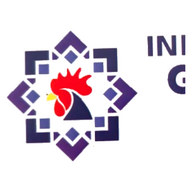
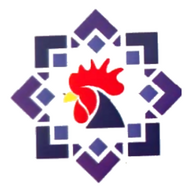
docs: add client-facing audit and proposal report; tighten rosette crop
Report drafted from docs/audit/evidence.md (every figure traceable to a command),
reviewed and corrected by the lead. Rosette icon re-cropped so it no longer
carries part of the wordmark.

Claude-Session: https://claude.ai/code/session_01Wh6Dv8TxxDZFjDfhotKqoT

diff --git a/docs/informe/informe-inmobiliaria-grande.md b/docs/informe/informe-inmobiliaria-grande.md
@@ -1,0 +1,241 @@
+# Inmobiliaria Grande: auditoría de la web actual y propuesta de web nueva
+
+Preparado para: José Antonio Grande · Preparado por: Alejandro Bolívar · Fecha: 3 de septiembre de 2026 · Validez de la propuesta: 30 días
+
+## Resumen para el dueño
+
+He medido la velocidad, la presencia en Google y los formularios de su web actual, www.inmobiliariagrande.com. La web pierde clientes por cuatro motivos. Primero, es lenta y se ve desordenada en el móvil. Segundo, Google no la entiende bien: el título sale cortado, las descripciones están repetidas y los 55 años de historia no aparecen. Tercero, los caminos de contacto fallan: el menú lleva a páginas de error y los formularios muestran un aviso de privacidad sin terminar. Cuarto, los textos legales obligatorios están vacíos o hablan de otra empresa. Propongo una web nueva, ligera y ordenada, construida sobre su marca de 1970, de la que ya he preparado un prototipo que acompaña a este informe. El precio es cerrado: 1.200 euros más IVA, con un mantenimiento opcional de 40 euros al mes si quiere que yo me ocupe de ella, y puede ver el prototipo y decidir en las próximas semanas.
+
+## 1. Móvil y rendimiento
+
+### 1.1 La portada tarda demasiado en abrirse en el móvil
+
+**Qué pasa:** En un móvil con conexión normal, lo principal de la portada tarda unos 6,5 segundos en verse y la página no responde al tacto hasta pasados casi 12 segundos.
+
+**Evidencia medida:** Lighthouse 12.8.2 en emulación móvil (4G lenta) sobre https://www.inmobiliariagrande.com/: rendimiento 41 sobre 100, LCP (Largest Contentful Paint, cuando se ve el contenido principal) 6,5 s, TTI (Time to Interactive, cuando responde al toque) 11,7 s, respuesta del servidor 710 ms. Comando: `npx -y lighthouse@12 https://www.inmobiliariagrande.com/ --preset=perf --form-factor=mobile`. Datos en docs/audit/home-mobile.json.
+
+**Qué le cuesta:** Quien busca piso compara varias agencias a la vez. Si su página no está lista, ese contacto se va a la siguiente pestaña.
+
+**Solución en la web nueva:** Portada ligera, con fotos comprimidas y pocos elementos, con el objetivo de mostrar lo principal en menos de 2,5 segundos; la cifra real se medirá tras el despliegue y se la entregaré por escrito.
+
+### 1.2 La página de cada piso es aún más lenta
+
+**Qué pasa:** Cuando alguien abre la página de un inmueble (la ficha), la espera se hace mayor. El motivo principal es el peso de las fotos.
+
+**Evidencia medida:** Sobre la ficha del piso RGC-0091 (https://www.inmobiliariagrande.com/ficha/piso/granada/alcampo/8081/29899079/es/), Lighthouse en móvil da 26 sobre 100, LCP 12,0 s y TTI 18,5 s; la página mueve 3 743 KiB en 184 peticiones. Esa ficha tiene 42 fotos de 1920 por 1280 píxeles que suman 8 924 283 bytes (unos 8,5 MB), medidas con un bucle de `curl -w %{size_download}`. Resultado en docs/audit/ficha-mobile.json.
+
+**Qué le cuesta:** La ficha es donde el cliente decide llamar. Si la página no responde hasta los 18 segundos, la decisión se toma en otra web.
+
+**Solución en la web nueva:** Fichas ligeras en las que las fotos se cargan solo cuando el visitante las va viendo.
+
+### 1.3 La portada se ve desordenada en el móvil
+
+**Qué pasa:** En pantalla estrecha, banderas amontonadas, buscador sobre las fotos y primeros pisos muy abajo.
+
+**Evidencia medida:** Captura con el móvil a 375 píxeles (docs/audit/current-home-375.png), tomada con `google-chrome --headless=new --window-size=375,2400 --screenshot`: 15 banderas en fila, buscador superpuesto a las fotos y primer inmueble bajo unos 1 300 píxeles de scroll.
+
+**Qué le cuesta:** Una primera impresión caótica resta credibilidad a quien busca una agencia seria para la compra de su casa.
+
+**Solución en la web nueva:** Diseño pensado para el móvil desde el principio, sin elementos que se pisen.
+
+### 1.4 Tecnología antigua y carga innecesaria
+
+**Qué pasa:** La web usa un programa de servidor sin soporte desde hace años y carga muchos componentes que no necesita.
+
+**Evidencia medida:** `curl -sSI https://www.inmobiliariagrande.com/` devuelve `x-powered-by: PHP/5.6.40`; esa versión dejó de actualizarse el 31 de diciembre de 2018 (php.net/eol.php). El HTML de la portada tiene 23 hojas de estilo y 19 programas (comandos `grep -c '<link rel="stylesheet"'` y `grep -o '<script[^>]*src=' | wc -l`), incluido un reCAPTCHA de Google de 354 KB que se descarga en la portada antes de que nadie envíe nada, y 3 013 elementos según Lighthouse.
+
+**Qué le cuesta:** Las piezas sin soporte son un riesgo de seguridad, y el peso sobrante hace cada carga más lenta y difícil de mantener.
+
+**Solución en la web nueva:** Web construida desde cero, sin componentes de sobra y al día en seguridad.
+
+## 2. SEO local y captación de clientes
+
+### 2.1 En Google su marca sale cortada y la descripción se repite
+
+**Qué pasa:** En los resultados de Google, el título de su página aparece partido en el nombre de la empresa, y todas las páginas muestran la misma descripción genérica.
+
+**Evidencia medida:** El título de la portada, del listado y de la página de error es literalmente `Pisos en Granada | Inmobiliarias Granada | Inmobiliaria G...`, cortado en el propio código (comando `grep -o '<title>[^<]*'`). La descripción se repite en todas las páginas: "Inmobiliaria Grande con multitud de propiedades, pisos , chalet , casas, villas en todas las zonas…".
+
+**Qué le cuesta:** En la búsqueda no se entiende quién es ni qué ofrece; la marca aparece cortada en su propio nombre y no hay motivo para entrar.
+
+**Solución en la web nueva:** Un título y una descripción propios y completos para cada página.
+
+### 2.2 Google no distingue lo importante de cada página
+
+**Qué pasa:** Cada página debe tener un titular principal claro (el llamado H1), pero la portada tiene 43 y los anuncios usan frases de cartel sin zona ni precio.
+
+**Evidencia medida:** La portada tiene 43 titulares principales (`grep -c '<h1'`). Los títulos de los anuncios son frases del agente como "!!GRAN PAREADO EN LA MALAHA!!!" o "…junto al metro en la zon..." (cortado). No hay datos estructurados JSON-LD (`grep -c 'application/ld+json'` da 0).
+
+**Qué le cuesta:** Google no puede mostrar sus anuncios con el detalle (precio, zona, metros) que permiten los datos estructurados, y un título como "!!GRAN PAREADO!!!" no coincide con lo que escribe quien busca "pareado en La Malahá".
+
+**Solución en la web nueva:** Un titular por página y anuncios con título uniforme (tipo, zona, ciudad y precio), con datos estructurados.
+
+### 2.3 Sus 55 años de historia no aparecen en ninguna parte
+
+**Qué pasa:** Su mejor argumento, que están desde 1970, no se ve en la web, que incluso se describe como joven y sigue con el logotipo antiguo.
+
+**Evidencia medida:** La página de empresa dice "equipo profesional Joven y Dinámico… Una agencia joven". La palabra "1970" no aparece en la portada ni en la página de empresa (`grep -c 1970`, resultado 0). El logotipo antiguo se ve en docs/audit/current-home-375.png.
+
+**Qué le cuesta:** "Desde 1970" es lo que transmite confianza y arraigo en Granada. Sin ello, la agencia compite solo por anuncios y no por su reputación, que es su mayor ventaja.
+
+**Solución en la web nueva:** La historia de los 55 años será protagonista en "Sobre nosotros" y acompañará a la marca renovada por toda la web.
+
+### 2.4 No hay página por zona y Google recibe una versión en inglés
+
+**Qué pasa:** Quien busca "piso en el Realejo" o "inmobiliaria en el Zaidín" no encuentra una página preparada, porque los pisos están detrás de un buscador. Además, Google recibe una versión en inglés si no se le indica el idioma.
+
+**Evidencia medida:** Los 276 anuncios están tras el buscador y no hay página propia de Centro, Zaidín ni Realejo. `curl -sSL https://www.inmobiliariagrande.com/` sin indicación de idioma devuelve `<html lang="en">` con dirección canónica en /en. Hay 15 banderas de idioma sin descripción.
+
+**Qué le cuesta:** Las búsquedas por barrio traen compradores reales y no hay página para ganarlas; la versión inglesa de una agencia granadina confunde a quien busca en español.
+
+**Solución en la web nueva:** Páginas en español para Granada y sus barrios, con los anuncios visibles sin necesidad de buscar.
+
+**Nota sobre lo no medido:** Su ficha de Google Business Profile, las visitas y las llamadas requieren sus cuentas; lo revisaremos juntos. El coste del contrato con Inmovilla lo conoce usted.
+
+## 3. Conversión y contacto
+
+### 3.1 El menú lleva a páginas que no existen
+
+**Qué pasa:** En el menú, "Contacto" y "Locales" apuntan a una página de error que muestra la portada completa, sin formulario ni teléfono.
+
+**Evidencia medida:** /contacto/ y /locales/, opciones del menú de la empresa, devuelven el error HTTP 404 con la plantilla de la portada (147 KB) y su mismo título (`curl -sSI`).
+
+**Qué le cuesta:** El cliente que pulsa "Contacto", la acción que más le interesa, se encuentra con una página inexistente.
+
+**Solución en la web nueva:** Página de contacto real con teléfono, dirección (Calle Recogidas 13, 1.º A) y formulario, más una página 404 amable.
+
+### 3.2 Los formularios no dicen quién recibe los datos
+
+**Qué pasa:** Los formularios muestran un aviso de privacidad sin terminar, sin el nombre ni el correo del responsable.
+
+**Evidencia medida:** Todos llevan el texto "Responsable: XXXXX … dirección de correo electrónico XXXXXX@XXXXXXX.es" (bloque `mytextoprivacidadFooter`). Hay cinco formularios en la portada (`grep -o '<form[^>]*>'`).
+
+**Qué le cuesta:** Dejar el teléfono en un formulario que no dice a quién va dirigido ni para qué se usará frena a cualquier persona prudente.
+
+**Solución en la web nueva:** Avisos claros con los datos reales de la empresa y mensaje de confirmación al enviar.
+
+### 3.3 La invitación al propietario que quiere vender está escondida
+
+**Qué pasa:** La invitación a vender no está en la cabecera ni en la primera pantalla del móvil, y se llama "Publica tu inmueble", en un botón gris.
+
+**Evidencia medida:** Solo existe como botón gris "Publica tu inmueble" y como formulario "Valoramos tu piso" cerca del pie (revisado en docs/audit/current-home-375.png).
+
+**Qué le cuesta:** El propietario que quiere vender no encuentra motivo para dejar sus datos, y ahí empieza la exclusiva.
+
+**Solución en la web nueva:** Botón rojo "Vende tu casa" en la cabecera de todas las páginas, visible en la primera pantalla del móvil, y página propia con formulario de valoración.
+
+## 4. Legal y accesibilidad
+
+### 4.1 La web no identifica a la empresa en los textos legales obligatorios
+
+**Qué pasa:** La normativa de protección de datos exige que la web diga quién es el responsable. El aviso legal está vacío y las políticas de privacidad y de cookies hablan de otra empresa.
+
+**Evidencia medida:** El aviso legal (bloque `mytextolegal`) solo dice "Si necesitas ayuda profesional para poder introducir este apartado puedes usar estos gestores". La política de cookies menciona "los sitios web de PORTAL", un texto de plantilla. No aparece el CIF ni el nombre registrado de la empresa en ningún punto.
+
+**Qué le cuesta:** Además del riesgo de sanción, transmite dejadez: quien no cuida su propia documentación difícilmente cuidará la compra de un piso.
+
+**Solución en la web nueva:** Aviso legal, política de privacidad y de cookies redactados con los datos reales de Inmobiliaria Grande.
+
+### 4.2 Dificultades para personas con discapacidad visual
+
+**Qué pasa:** Muchas imágenes no tienen descripción alternativa (el texto "alt" que leen los buscadores y los programas de voz) y hay textos con poco contraste.
+
+**Evidencia medida:** Lighthouse da a la ficha 49 sobre 100 en accesibilidad: 15 imágenes sin "alt", 8 campos sin etiqueta y 2 textos con contraste insuficiente. En la portada, 21 de 27 imágenes no tienen "alt" (comando `grep -oE '<img[^>]+>' | grep -vc 'alt="[^"]+"'`).
+
+**Qué le cuesta:** Excluye a personas con baja visión y a quienes navegan por voz, y el texto alternativo de las fotos es además lo que Google lee para entender qué enseña cada imagen.
+
+**Solución en la web nueva:** Imágenes descritas, botones con nombre y colores con contraste suficiente, revisado antes de publicar.
+
+### 4.3 En el móvil no se puede ampliar la página con los dedos
+
+**Qué pasa:** La web está configurada para impedir el zoom táctil, una función que muchas personas necesitan para leer.
+
+**Evidencia medida:** La ficha incluye `<meta name="viewport" content="width=device-width, user-scalable=no, maximum-scale=1.0">`, que desactiva el zoom; Lighthouse lo marca como problema en 2 elementos.
+
+**Qué le cuesta:** Quien no pueda agrandar la letra de un anuncio buscará la misma casa en otra web donde sí pueda.
+
+**Solución en la web nueva:** El zoom quedará activado y la accesibilidad se comprobará antes de publicar.
+
+## 5. Lo que ya está bien
+
+La web nueva debe conservar lo que ya hace bien:
+
+- La conexión es segura (HTTPS) y redirige bien la versión sin cifrar.
+- El aviso de cookies permite rechazarlas, algo que muchas webs del sector no hacen.
+- Cada inmueble tiene muchas fotos, entre 24 y 60 en las fichas revisadas.
+- El teléfono es clicable desde el móvil y hay botón de WhatsApp.
+
+## 6. Propuesta: la web nueva
+
+### Qué incluye (alcance)
+
+- Seis páginas cerradas: inicio con buscador, listado con filtros, ficha de inmueble, contacto, "Vende tu casa" con formulario de valoración y "Sobre nosotros" con los 55 años de historia.
+- Diseño propio sobre su marca renovada de 2026 (la roseta, el gallo y los violetas), aplicado a logotipo, colores y tipografía.
+- Hasta 30 inmuebles en el lanzamiento, con fotos optimizadas. El prototipo ya muestra ocho inmuebles reales, como el ático dúplex del Centro o el pareado de Monachil.
+- Formularios de contacto y de valoración con avisos claros, y botón de WhatsApp.
+- Aviso legal, política de privacidad y de cookies con los datos reales de la empresa, página 404 amable y favicon.
+- Títulos y descripciones propios por página para aparecer mejor en Google.
+- Alta guiada en Google Business Profile y despliegue en su dominio actual.
+- Medición de velocidad de la web actual y de la nueva, entregada por escrito.
+
+### Qué NO incluye (fase 2, presupuesto aparte)
+
+- Sincronización automática con Inmovilla, Idealista o Fotocasa.
+- Gestor de contenidos para que usted edite solo.
+- Fotografía profesional de los inmuebles.
+- Textos por barrio más allá de las seis páginas.
+- Campañas de anuncios.
+
+Su web actual está montada sobre el CRM Inmovilla, como indica el pie de página, y allí viven sus 276 anuncios. La web nueva es independiente y no toca ese programa: publica los inmuebles que usted elija. Antes de la fase 2 hay que confirmar cómo publica hoy en los portales, porque eso se gestiona desde Inmovilla.
+
+### Plazo
+
+El plazo es de 4 semanas desde que me entregue los materiales: logotipo en archivo vectorial, textos de la historia, listado de inmuebles a publicar y datos fiscales.
+
+- Semana 1: diseño sobre la marca nueva y revisión del prototipo con usted.
+- Semana 2: construcción de las seis páginas con su contenido real.
+- Semana 3: textos legales, formularios y pruebas en móvil y ordenador.
+- Semana 4: despliegue en su dominio, alta guiada en Google y medición de velocidad.
+
+### Precio cerrado: 1.200 € (IVA no incluido)
+
+El precio es cerrado e incluye todo el alcance. Desglose orientativo del trabajo:
+
+| Bloque | Horas | Importe |
+|---|---|---|
+| Diseño de las seis páginas sobre la marca nueva | 25 | 500 € |
+| Maquetación y desarrollo (estructura, estilos, formularios, WhatsApp) | 20 | 400 € |
+| Textos legales, página 404 y favicon | 8 | 160 € |
+| Despliegue, dominio, alta en Google, pruebas y medición | 7 | 140 € |
+| **Total** | **60** | **1.200 €** |
+
+Pago: 40 % al empezar (480 €) y 60 % a la entrega (720 €).
+
+### Mantenimiento: 40 €/mes
+
+Por 40 € al mes me ocupo de que la web esté viva y al día. Incluye:
+
+- Alojamiento del sitio (hosting) y dominio, con su renovación anual.
+- Altas y bajas de inmuebles, hasta 10 movimientos al mes, en un plazo de 48 horas laborables.
+- Copias de seguridad semanales.
+- Actualizaciones de seguridad y cambios menores de contenido (teléfono, horario, textos cortos).
+- Informe trimestral de visitas.
+
+Sin permanencia: si no quiere seguir, basta con avisar con 30 días de antelación.
+
+### Qué necesito de usted para empezar
+
+- El logotipo original en vectorial: la marca de 2026 solo existe como fotografía de la tarjeta impresa, y su web sigue con el logotipo antiguo.
+- Los datos fiscales de la empresa (nombre registrado y CIF) para el aviso legal.
+- La historia de la empresa para contar bien esos 55 años.
+- El acceso al dominio para publicar la web nueva en su dirección actual.
+
+## 7. Próximo paso
+
+Le propongo ver juntos el prototipo que acompaña a este informe, para que toque el diseño con sus propios inmuebles. Si le convence, me entrega los materiales y en cuatro semanas su web nueva estará publicada por 1.200 euros más IVA.
+
+Alejandro Bolívar, profesional independiente. Estudiante de último curso de Ingeniería Informática, Granada.
+
+---
+
+Nota sobre el prototipo: el logotipo que aparece en él es un recorte limpiado de la fotografía de la tarjeta, no el original. Para la web de producción hace falta el archivo vectorial del rebranding; no se ha redibujado ni reinterpretado la marca. Todas las cifras de este informe se midieron el 3 de septiembre de 2026 con los comandos indicados y quedan guardadas junto al prototipo (carpeta docs/audit) para que cualquiera pueda repetirlas.
